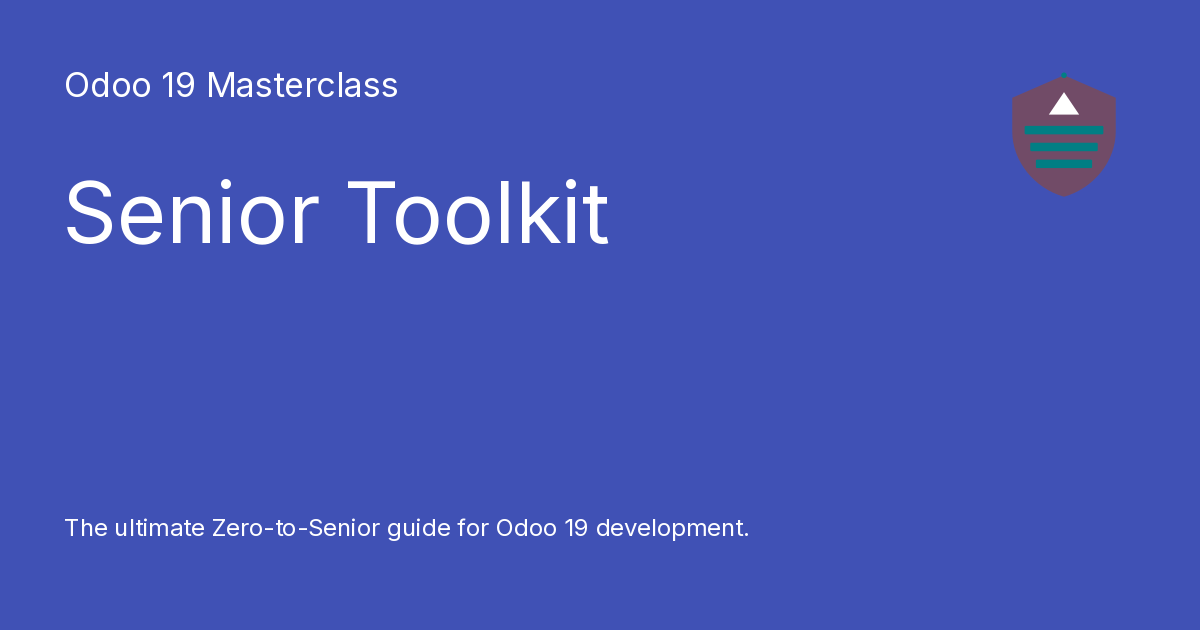
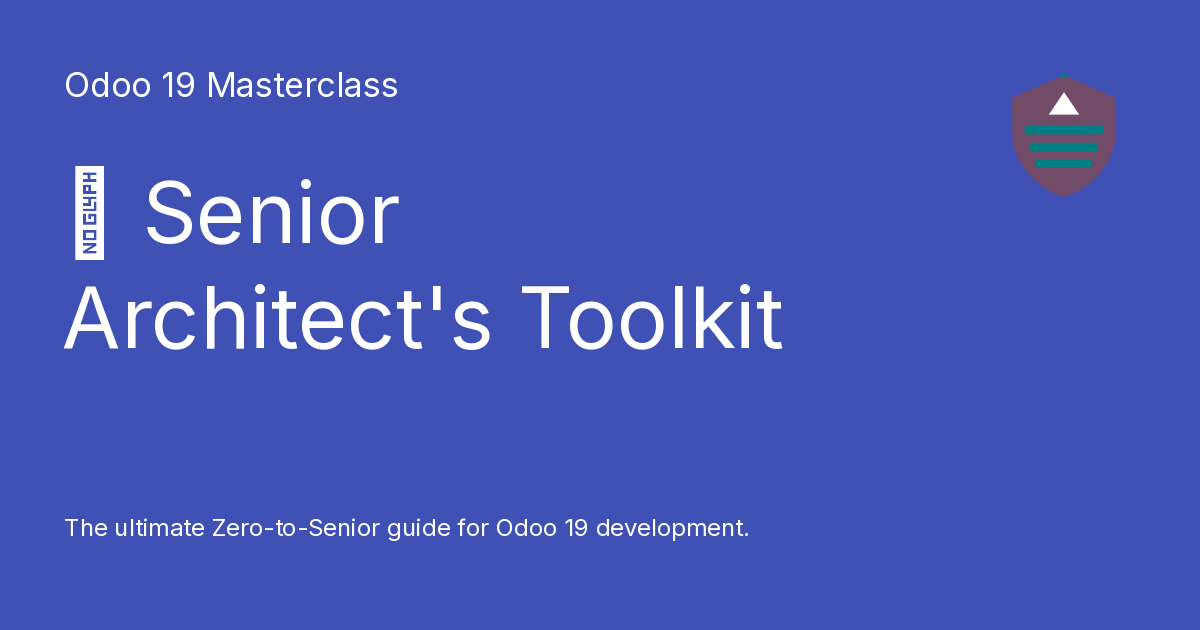
feat: add v18-v19 Migration Delta, Senior Toolkit, and enable Copy-to-Clipboard UX

Changed region(s): [[0.0308, 0.4524, 0.6475, 0.573], [0.0308, 0.2413, 0.5242, 0.4222]]

diff --git a/docs/advanced/senior_toolkit.md b/docs/advanced/senior_toolkit.md
@@ -1,111 +1,54 @@
-# Senior Toolkit: Professional Odoo Development
+# 🛠️ The Senior Architect's Toolkit
 
-This toolkit provides the standards and procedures required for high-level Odoo engineering and project management.
-
----
-
-## 1. Standard Operating Procedures (SOPs) for Git in Odoo
-
-To maintain a clean, bisectable, and professional history, follow these rules:
-
-### Branching Strategy
-*   **Feature Branches:** `feature/<module_name>-<short_description>`
-*   **Fix Branches:** `fix/<module_name>-<short_description>`
-*   **Refactor Branches:** `refactor/<module_name>-<short_description>`
-
-### Commit Message Standards
-Use the Odoo standard format: `[MOD] module_name: short description`
-
-*   `[ADD]`: New module or major feature.
-*   `[FIX]`: Bug fix.
-*   `[REF]`: Refactoring code without behavior change.
-*   `[REM]`: Removing code or files.
-*   `[MOV]`: Moving files.
-*   `[IMP]`: Improvement of existing feature.
-*   `[SEC]`: Security fix.
-
-**Example:**
-`[FIX] auction_marketplace: ensure bid increment is strictly positive`
-
-### Commit Hygiene
-*   **Atomic Commits:** One logical change per commit.
-*   **No "WIP" Commits:** Squash intermediate commits before merging.
-*   **Linear History:** Prefer `git rebase` over `git merge` for feature branches.
+Being a Senior Odoo Architect isn't just about code; it's about the tools you use to build faster and more reliably. Here is the exact setup used for professional Odoo 19 development.
 
 ---
 
-## 2. Writing Technical Specifications for Odoo
+## 💻 VS Code Essentials
+If you aren't using these extensions, you're working too hard.
 
-A technical spec bridges the gap between functional requirements and code implementation.
-
-### Required Sections
-1.  **Overview:** Context and business goal.
-2.  **Data Model Changes:**
-    *   New models (Name, Inherit, Description).
-    *   New fields (Name, Type, String, Help, Attributes like `readonly`, `required`).
-3.  **Business Logic:**
-    *   Methods to override (e.g., `create`, `write`, `action_confirm`).
-    *   New methods and their logic (pseudo-code or flowcharts).
-    *   Computed fields and their dependencies (`@api.depends`).
-    *   Constraints (`@api.constrains` and SQL constraints).
-4.  **UI/UX Changes:**
-    *   View modifications (XPath locations).
-    *   New menus and actions.
-    *   Specific widget requirements (e.g., `selection_badge`).
-5.  **Security:**
-    *   New Groups (XML IDs and Category).
-    *   Access Rights (ACLs).
-    *   Record Rules (Row-level security).
-6.  **Performance Considerations:**
-    *   Expected data volume.
-    *   Need for SQL indexes.
-    *   Avoidance of O(N) operations in loops.
+| Extension | Purpose |
+| :--- | :--- |
+| **Odoo Snippets** | Instant boilerplate for Models, Views, and Actions. |
+| **Pylance** | High-performance type checking for Odoo recordsets. |
+| **XML Tools** | Auto-formatting and XPath validation. |
+| **Error Lens** | See Odoo traceback hints directly in your code. |
 
 ---
 
-## 3. High-Quality Odoo Code Review Checklist
+## 🐚 CLI Power Aliases
+Stop typing long commands. Add these to your `.bashrc` or `.zshrc`.
 
-### Security
-*   [ ] Is `sudo()` used sparingly and justified?
-*   [ ] Are ACLs (`ir.model.access.csv`) defined for all new models?
-*   [ ] Are record rules sufficient to prevent data leakage between users/companies?
-*   [ ] Is there any potential for SQL injection (using `self.env.cr.execute` with string formatting)?
+```bash
+# Quick Start & Update
+alias odoo-up="python3 odoo-bin -c odoo.conf -u"
 
-### Performance
-*   [ ] Are there any "Database queries in a loop"? (N+1 problem)
-*   [ ] Are computed fields using `depends` correctly to avoid over-computation?
-*   [ ] Are large datasets handled with `search_fetch()` or `batches`?
-*   [ ] Is `mapped()` used instead of manual loops for field extraction?
+# Fast Module Refresh (Usage: odoo-mod my_module)
+odoo-mod() { python3 odoo-bin -c odoo.conf -u $1 --stop-after-init; }
 
-### Naming & Style
-*   [ ] Does it follow Odoo's [official coding guidelines](https://www.odoo.com/documentation/17.0/developer/reference/standard_modules/coding_guidelines.html)?
-*   [ ] Are field names descriptive and follow Odoo conventions (e.g., `_id` for M2O, `_ids` for O2M/M2M)?
-*   [ ] Are XML IDs unique and descriptive?
-
-### Functional Correctness
-*   [ ] Does the code handle "Multi-company" environments correctly?
-*   [ ] Are `ensure_one()` checks present where a single record is expected?
-*   [ ] Are translations handled via `_()`?
+# Clear Cache & Restart
+alias odoo-clear="find . -name '*.pyc' -delete && rm -rf ~/.cache/pip"
+```
 
 ---
 
-## 4. Managing Client Expectations in ERP Projects
+## 🔍 Debugging Like a Pro
 
-ERP implementations are high-stakes. Manage them professionally:
+### 1. The `breakpoint()` Trick
+In Odoo 19, use the native Python `breakpoint()` inside any method. It works perfectly with the Odoo shell.
 
-1.  **Standard First:** Always demonstrate how to achieve a goal using standard Odoo features before proposing a customization. "Configuration over Customization."
-2.  **The 80/20 Rule:** 80% of the value often comes from 20% of the features. Identify "Must-haves" vs "Nice-to-haves" early.
-3.  **Clear Boundaries:** Define the "Out of Scope" explicitly in every specification.
-4.  **Frequent Demos:** Show progress weekly. Never wait until the end of a 3-month project to show a feature.
-5.  **Technical Debt Warning:** Explain the long-term maintenance cost of complex customizations (migration effort, potential bugs).
-6.  **Data is King:** Remind clients that software is only as good as the data they put into it. Start data cleaning early.
+### 2. OWL DevTools
+Install the **OWL Inspector** (Chrome/Firefox). It allows you to:
+- Inspect component `state` and `props` in real-time.
+- Trigger OWL events manually to test UI behavior.
 
 ---
 
-<div class="feedback-container">
-    <span class="feedback-label">Was this page helpful?</span>
-    <div class="feedback-buttons">
-        <button class="feedback-btn" onclick="sendFeedback(true)">👍 Yes</button>
-        <button class="feedback-btn" onclick="sendFeedback(false)">👎 No</button>
-    </div>
-</div>
+## 📦 Recommended Environment
+- **Python**: 3.12+
+- **PostgreSQL**: 16+
+- **Node.js**: 20+ (for OWL/JS linting)
+- **Docker**: For testing against different Odoo versions without polluting your local machine.
+
+---
+*Tip: A Senior developer spends 30% of their time improving their tools and 70% building features.*

diff --git a/docs/migration/cheat_sheet.md b/docs/migration/cheat_sheet.md
@@ -1,55 +1,54 @@
-# Odoo 19 Migration Cheat Sheet
+# 🚀 Odoo 18 to Odoo 19: The Migration Delta
 
-Use this guide to quickly update your modules from Odoo 18 to Odoo 19.
-
----
-
-## 🏗️ Configuration & Environment
-| Feature | Odoo 18 | Odoo 19 (Modern) |
-| :--- | :--- | :--- |
-| **Python Version** | 3.10 | **3.12** (Recommended) |
-| **Server Port** | `xmlrpc_port` | **`http_port`** |
-| **Longpolling Port** | `chat_port` | **`gevent_port`** |
+This guide tracks the critical technical changes between Odoo 18 and 19. If you are migrating a module or preparing for v19 development, these are the "Senior" breaking changes you must know.
 
 ---
 
-## 🧠 ORM & Python Changes
-| Feature | Odoo 18 | Odoo 19 (Modern) |
-| :--- | :--- | :--- |
-| **Model Name** | `_name` required | **Optional** (Auto-derived from ClassName) |
-| **Constraints** | `_sql_constraints = []` | **`_name = models.Constraint()`** |
-| **Indexes** | `index=True` | **`_name = models.Index()`** |
-| **Domains** | `('child_ids', '=', False)` | **`('child_ids', 'not any!', [])`** (Faster) |
-| **O2M Search** | `('child_ids', '!=', False)` | **`('child_ids', 'any!', [])`** |
-| **Decorators** | `@api.returns` | **REMOVED** (Use type hints) |
+## 🏗️ Core Framework & ORM
+
+### 1. `SQL()` Wrapper is Now Mandatory
+The old `cr.execute(f"SELECT ...")` style is deprecated in favor of the `SQL()` wrapper to prevent SQL injection and handle parameter formatting automatically.
+- **v18**: `cr.execute("SELECT id FROM table WHERE name = %s", (name,))`
+- **v19**: `self.env.cr.execute(SQL("SELECT id FROM %I WHERE name = %s", table, name))`
+
+### 2. Search & Fetch Optimization
+The `search_fetch()` method is now the preferred way to retrieve data for performance.
+- **Why**: It combines searching and reading into a single database trip, reducing round-trips for large recordsets.
+
+### 3. Recordset `copy()` Behavior
+Strict validation has been added to `copy_data()`. Default values in `_inherits` are handled more explicitly to prevent data leakage between original and duplicate records.
 
 ---
 
-## 🎨 Views & XML Changes
-| Feature | Odoo 18 | Odoo 19 (Modern) |
-| :--- | :--- | :--- |
-| **List View** | `<tree>` | **`<list>`** |
-| **Kanban Card** | `<t t-name="kanban-box">` | **`<card>`** |
-| **QWeb Output** | `<span t-esc="..."/>` | **`<span t-out="..."/>`** |
-| **View Overrides** | `mode="primary"` | **`mode="inner"`** (Surgical replace) |
-| **Template Extension** | Standard `<xpath>` | **`inheritance_mode="inner"`** (Root only) |
+## 🎨 Frontend & OWL 2.0
+
+### 1. Removal of Legacy Widget Mixins
+Several legacy `Widget` and `Class` mixins from v15/v16 that were still supported in v18 have been fully removed. All frontend logic must now be pure OWL components.
+
+### 2. `bus_service` Enhancements
+The `bus_service` now supports more granular channel subscriptions, allowing for better real-time updates in multi-company environments without overloading the long-polling server.
+
+### 3. Strict Prop Validation
+OWL 2.0 in Odoo 19 enforces stricter `props` validation. Components passing undeclared props will now throw explicit warnings in the developer console.
 
 ---
 
-## 🌐 JavaScript (OWL) Changes
-| Feature | Odoo 18 | Odoo 19 (Modern) |
-| :--- | :--- | :--- |
-| **Inheritance** | `Class.include({})` | **DELETED** (Use `patch`) |
-| **Patching** | `@web/core/utils/patch` | **Strict `super.setup()` required** |
-| **UI Shell** | Top Menu | **Collapsible Sidebar** |
-| **Registry** | `category("views")` | **Standardized categories** |
+## 🛠️ View & UI Changes
+
+### 1. `<searchpanel>` Performance
+The `searchpanel` has been refactored to use lazy-loading by default. For large datasets (like thousands of categories), this significantly improves view load time.
+
+### 2. Advanced View XML Syntax
+- **Graph Views**: New attributes for better controlling stack behavior.
+- **Pivot Views**: Enhanced `disable_linking` logic for security-sensitive data.
 
 ---
 
-<div class="feedback-container">
-    <span class="feedback-label">Was this page helpful?</span>
-    <div class="feedback-buttons">
-        <button class="feedback-btn" onclick="sendFeedback(true)">👍 Yes</button>
-        <button class="feedback-btn" onclick="sendFeedback(false)">👎 No</button>
-    </div>
-</div>
+## 📝 Senior Migration Checklist
+1. [ ] Audit all custom SQL queries and wrap them in `SQL()`.
+2. [ ] Replace `search().read()` patterns with `search_fetch()`.
+3. [ ] Verify OWL component props against the new 2.0 schema.
+4. [ ] Test multi-company record access in the new `bus_service` channels.
+
+---
+*Stay ahead of the curve. Odoo 19 is about performance and security.*

diff --git a/README.md b/README.md
@@ -14,6 +14,8 @@ This project was designed to bridge the gap between basic Odoo tutorials and the
 ### Key Highlights:
 - **28+ Hours of Content**: A structured, phase-by-phase roadmap.
 - **Master Project (`pways_auction`)**: Build a real-world Auction Marketplace throughout the course.
+- **v18 to v19 Migration Delta**: A deep dive into breaking changes and new Odoo 19 APIs.
+- **Senior Architect's Toolkit**: Professional VS Code setup, CLI aliases, and debugging workflows.
 - **Deep Framework Internals**: Coverage of `_inherits`, `SQL()`, `bus_service`, OWL Registries, and Prefetching mechanisms.
 - **Professional DevOps**: Docker, scaling, and migration scripts.
 - **Interactive Progress**: A custom built-in dashboard to track your learning journey.